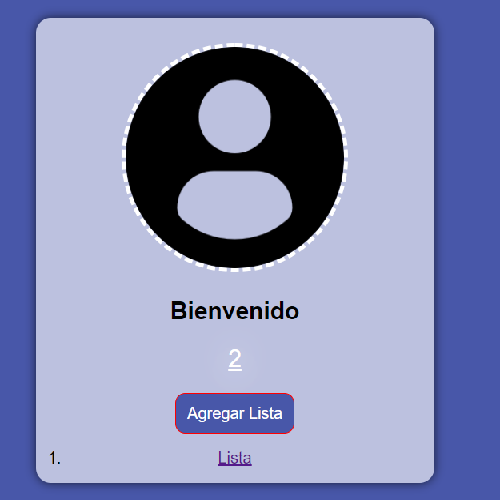
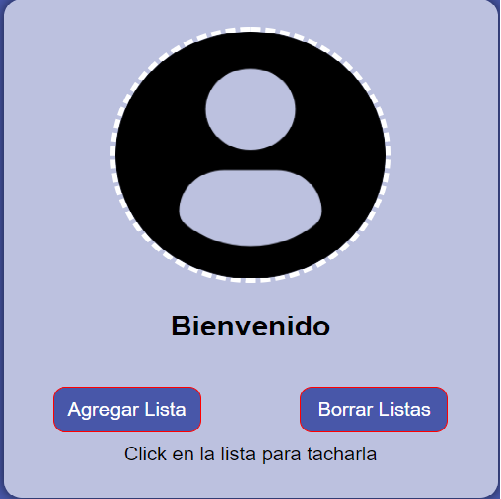
Tablero de tareas

diff --git a/assets/scripts/tareas.js b/assets/scripts/tareas.js
@@ -1,26 +1,47 @@
 // Agregar el nombre en el perfil
-
 const perfil = document.getElementById("perfilNombre");
 perfil.innerHTML = localStorage.getItem("perfil");
 
 //Agregar una lista en el perfil
 const agregar = document.getElementById("agregar");
 const agregarLista = document.getElementById("lista");
-let i = 0;
+let iterador = 0;
+//Evento para agregar la lista
 agregarLista.addEventListener("click", () => {
-  if (i < 4) {
-    const agregar = document.getElementById("agregar");
-    agregar.innerHTML += `<li><a href="" class="li" id="li">Lista</a></li>`;
-    const li = document.getElementById("li");
-    i++;
-  }
+  (async () => {
+    const { value: text } = await Swal.fire({
+      input: "textarea",
+      inputLabel: "Lista",
+      inputPlaceholder: "Escriba su lista aquí",
+      inputAttributes: {
+        "aria-label": "Type your message here",
+      },
+      showCancelButton: true,
+    });
+    if (text) {
+      Swal.fire(text);
+    }
+    let lista = text;
+    if (lista != undefined && lista != "") {
+      if (iterador < 4) {
+        
+        agregar.innerHTML += `<li><p class="li" id="${iterador}"  onclick="tachar(${iterador})" >${lista}</p></li>`;
+        iterador++;
+      }
+    }
+  })();
 });
+//Eliminar las listas
+const borrarListas = document.getElementById("borrarLista");
+borrarListas.addEventListener("click",()=>{
+  const agregar = document.getElementById("agregar");
+  agregar.innerHTML = ""
+})
 
 //Agregar texto a la barrra
 const letra = document.querySelectorAll(".letra");
-
 const mensaje = document.getElementById("mensaje");
-
+//Funcion del teclado para escribir
 const teclado = (event) => {
   const texto = event.target.innerText;
   if (texto == "__") {
@@ -31,13 +52,14 @@ const teclado = (event) => {
     mensaje.innerText += texto;
   }
 };
-
+//Enviar cada tecla a la funcion teclado
 for (let i = 0; i < letra.length; i++) {
   letra[i].addEventListener("click", teclado);
 }
 
+//Agregar la tarea a la barra inferior con el btn aceptar
 const aceptar = document.getElementById("aceptar");
-let id=0;
+let id = 0;
 aceptar.addEventListener("click", () => {
   let mensajeFinal = mensaje.innerHTML;
   if (mensajeFinal == "") {
@@ -50,7 +72,8 @@ aceptar.addEventListener("click", () => {
   }
 });
 
-function tachar(id){
+//Tachar las tareas de la barra inferior
+function tachar(id) {
   let tachar = document.getElementById(id);
   tachar.className = "tachar";
 }
@@ -58,7 +81,7 @@ function tachar(id){
 //Borrar las tareas
 
 const btnBorrar = document.getElementById("borrar");
-btnBorrar.addEventListener("click",()=>{
+btnBorrar.addEventListener("click", () => {
   const tarea = document.getElementById("tarea");
   tarea.innerHTML = "";
-})
+});

diff --git a/assets/html/to-do.html b/assets/html/to-do.html
@@ -5,7 +5,7 @@
     <meta charset="UTF-8">
     <meta name="viewport" content="width=device-width, initial-scale=1.0">
     <link rel="stylesheet" href="../css/to-do.css">
-    <link rel="icon" href="assets/img/icono.png">
+    <link rel="icon" href="../img/icono.png">
 
     <title>Tablero</title>
 
@@ -24,12 +24,16 @@
                 <h2 id="perfilNombre">
                 </h2>
             </div>
-            <div>
+            <div class="btnLista">
                 <a href="#" class="lista" id="lista">Agregar Lista</a>
+                <a href="#" class="lista" id="borrarLista">Borrar Listas</a>
             </div>
+            <p>Click en la lista para tacharla</p>
+           
+            
             <div class="agregar">
                 <ol id="agregar">
-                    <li><a href="#" class="li">Lista</a></li>
+                    
                 </ol>
             </div>
         </section>
@@ -110,5 +114,6 @@
 
 
 <script src="../scripts/tareas.js"></script>
+    <script src="https://cdn.jsdelivr.net/npm/sweetalert2@10"></script>
 
 </html>

diff --git a/assets/css/to-do.css b/assets/css/to-do.css
@@ -47,6 +47,13 @@ h2 {
     text-decoration: underline;
 
 }
+p{
+    text-align: center;
+    margin: 10px 0;
+}
+.btnLista{
+    display: flex;
+}
 .lista {
     display: flex;
     align-items: center;
@@ -233,7 +240,7 @@ button{
 }
 @media screen and (max-width:412px){
     .lista{
-        width: 50%;
+        width: 45%;
     }
     .letra{
         width: 30px;
@@ -261,7 +268,8 @@ button{
         height: 23px;
     }
     .lista{
-        width: 60%;
+        width: 45%;
+        text-align: center;
     }
 }
 
